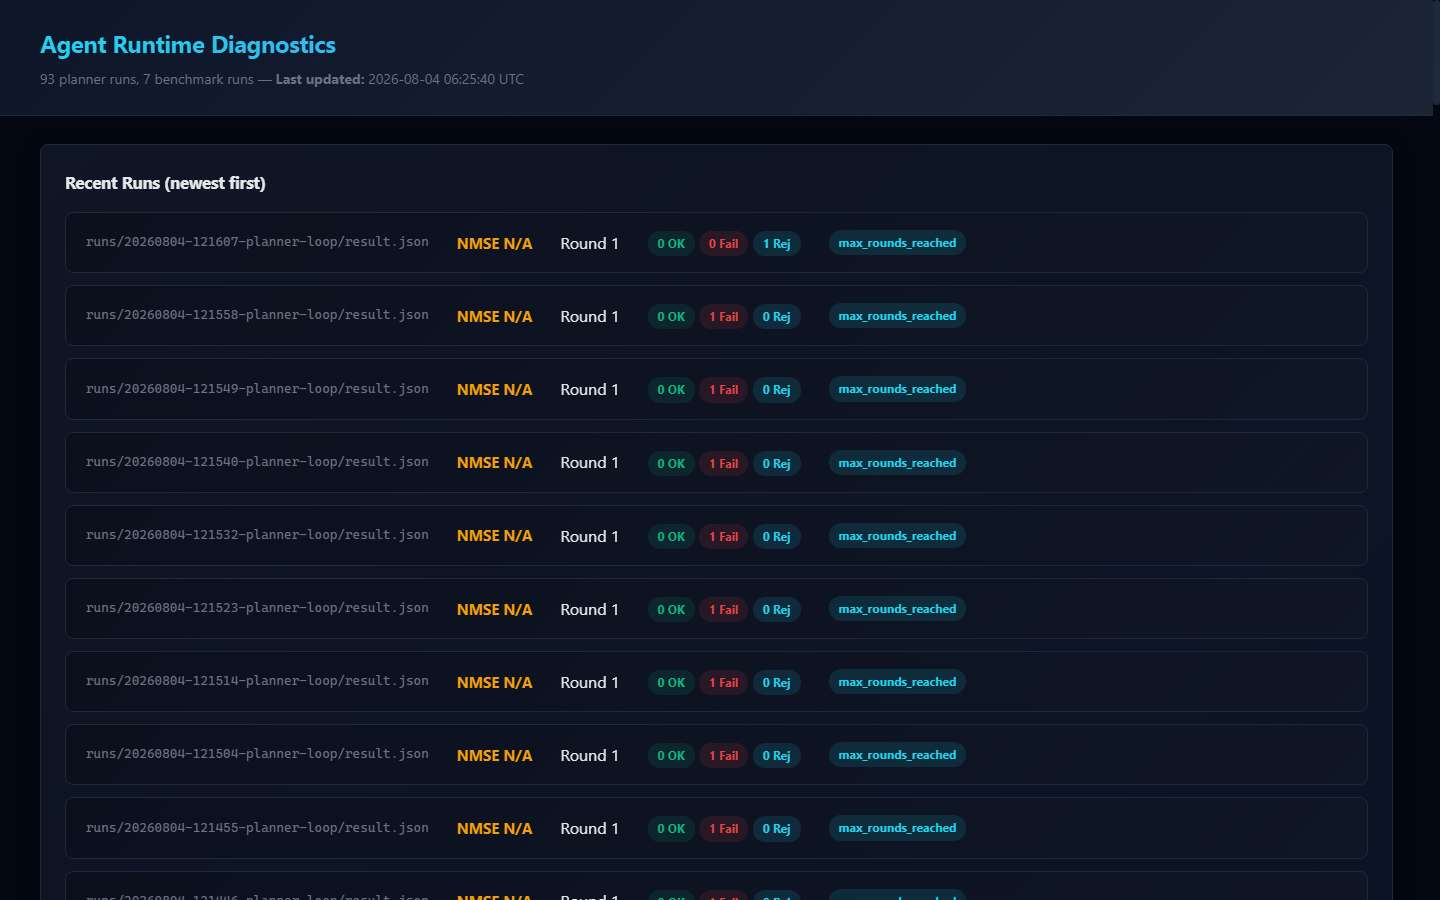
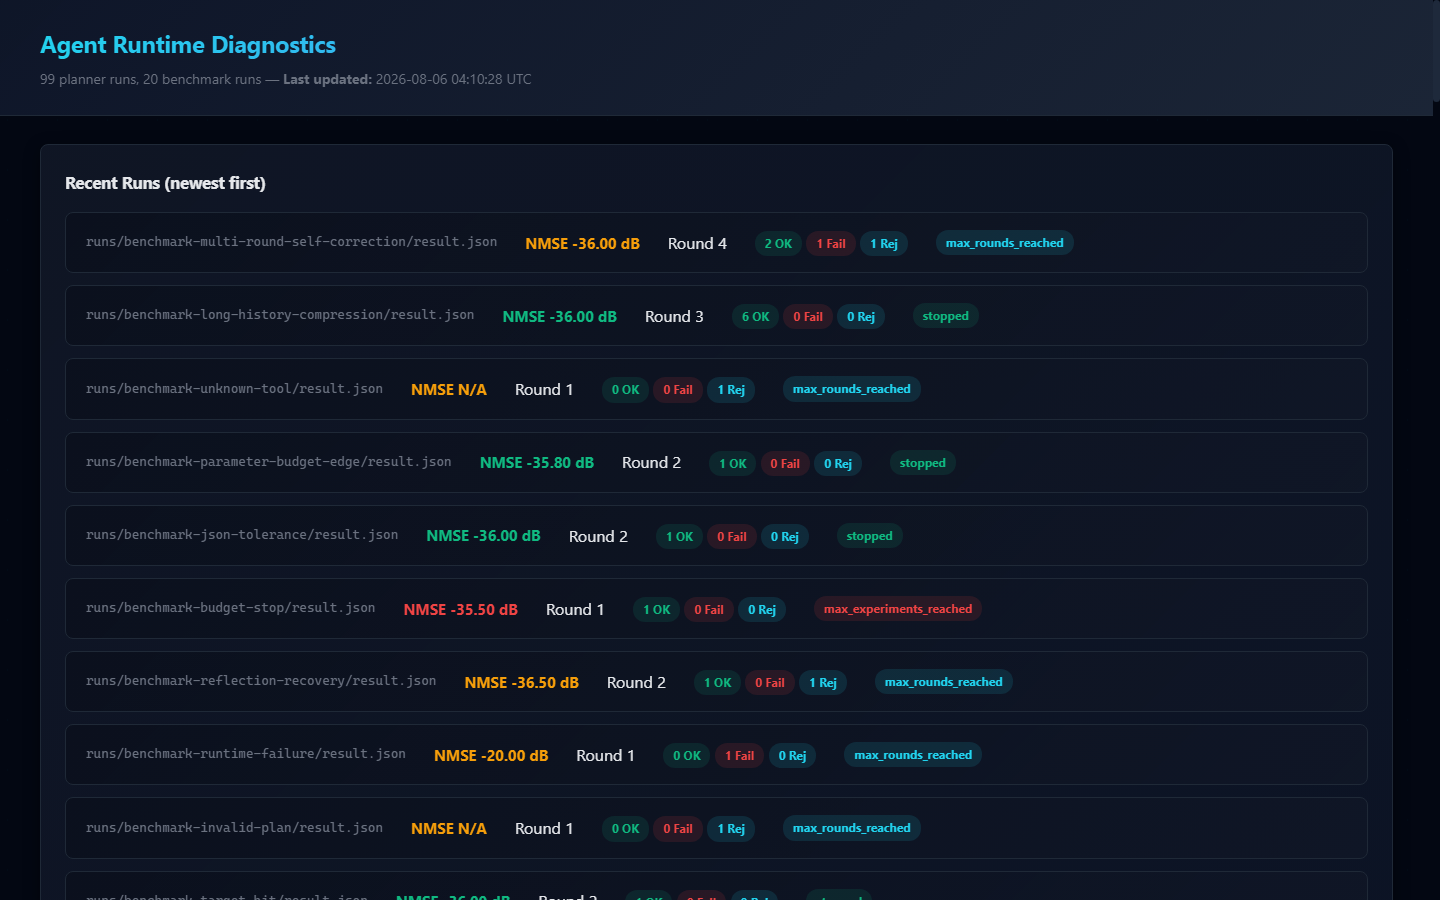
feat(ui): fix tab crowding, add URL tab links + auto-loaded result screenshots; release 2.3.0
- tab bar: smaller padding, nowrap, horizontal scroll on narrow screens
- ?tab=workflow|agent|benchmark|compare opens a tab and auto-loads saved
  results for benchmark/compare (shareable links)
- README: new Benchmark and Strategy Comparison tab screenshots + refreshed
  dashboard screenshot
- version bump to 2.3.0

diff --git a/src/nonlinear_agent/web_ui.py b/src/nonlinear_agent/web_ui.py
@@ -62,16 +62,20 @@ header{
 /* ── TABS ── */
 nav.tabs{
   position:relative;z-index:1;
-  display:flex;gap:0;padding:0 36px;
+  display:flex;flex-wrap:wrap;gap:2px 0;padding:0 24px;
   background:rgba(3,7,18,.78);border-bottom:1px solid var(--border);
 }
 nav.tabs .tab{
-  padding:16px 32px;cursor:pointer;font-weight:650;font-size:14px;
+  padding:14px 20px;cursor:pointer;font-weight:650;font-size:13.5px;
   color:var(--muted);border-bottom:3px solid transparent;user-select:none;
-  transition:all .15s;
+  transition:all .15s;white-space:nowrap;line-height:1.2;flex-shrink:0;
 }
 nav.tabs .tab:hover{color:var(--text)}
 nav.tabs .tab.active{color:var(--blue);border-bottom-color:var(--blue)}
+@media(max-width:900px){
+  nav.tabs{flex-wrap:nowrap;overflow-x:auto;padding:0 10px;-webkit-overflow-scrolling:touch}
+  nav.tabs .tab{padding:13px 15px;font-size:13px}
+}
 
 /* ── MAIN ── */
 main{
@@ -389,6 +393,7 @@ document.querySelectorAll(".tab").forEach(function(t){t.addEventListener("click"
   document.getElementById("panel-agent").style.display=(m==="agent")?"":"none";
   document.getElementById("panel-benchmark").style.display=(m==="benchmark")?"":"none";
   document.getElementById("panel-compare").style.display=(m==="compare")?"":"none";
+  try{history.replaceState(null,"","?tab="+m)}catch(_){}
 })});
 
 document.getElementById("agProv").addEventListener("change",function(){
@@ -631,6 +636,15 @@ function renderBenchmarkSummary(data){
   }
   document.getElementById("bmResults").style.display="block";
 }
+// URL tab support: open a tab via ?tab=workflow|agent|benchmark|compare.
+// benchmark/compare auto-load saved results so shared links show data.
+(function(){
+  var m=(location.search.match(/[?&]tab=([a-z]+)/)||[])[1]||"workflow";
+  var t=document.querySelector('.tab[data-tab="'+m+'"]');
+  if(t)t.click();
+  if(m==="compare"&&document.getElementById("cmpLoadBtn"))document.getElementById("cmpLoadBtn").click();
+  if(m==="benchmark"&&document.getElementById("bmLoadBtn"))document.getElementById("bmLoadBtn").click();
+})();
 console.log("UI ready")
 })();
 </script>

diff --git a/README.md b/README.md
@@ -10,6 +10,14 @@
 
 ![Web UI 操作面板](docs/assets/screenshots/web-ui-home.png)
 
+Benchmark 页签（10-case 评估，含 planner 成功率、自我修正、token/成本指标）：
+
+![Benchmark 页签](docs/assets/screenshots/web-ui-benchmark.png)
+
+Strategy Comparison 页签（四策略对照，含 95% CI 与 paired delta）：
+
+![Strategy Comparison 页签](docs/assets/screenshots/web-ui-compare.png)
+
 本地诊断 Dashboard（聚合全部实验指标、错误分布与策略对照）：
 
 ![Diagnostics Dashboard](docs/assets/screenshots/dashboard.png)
